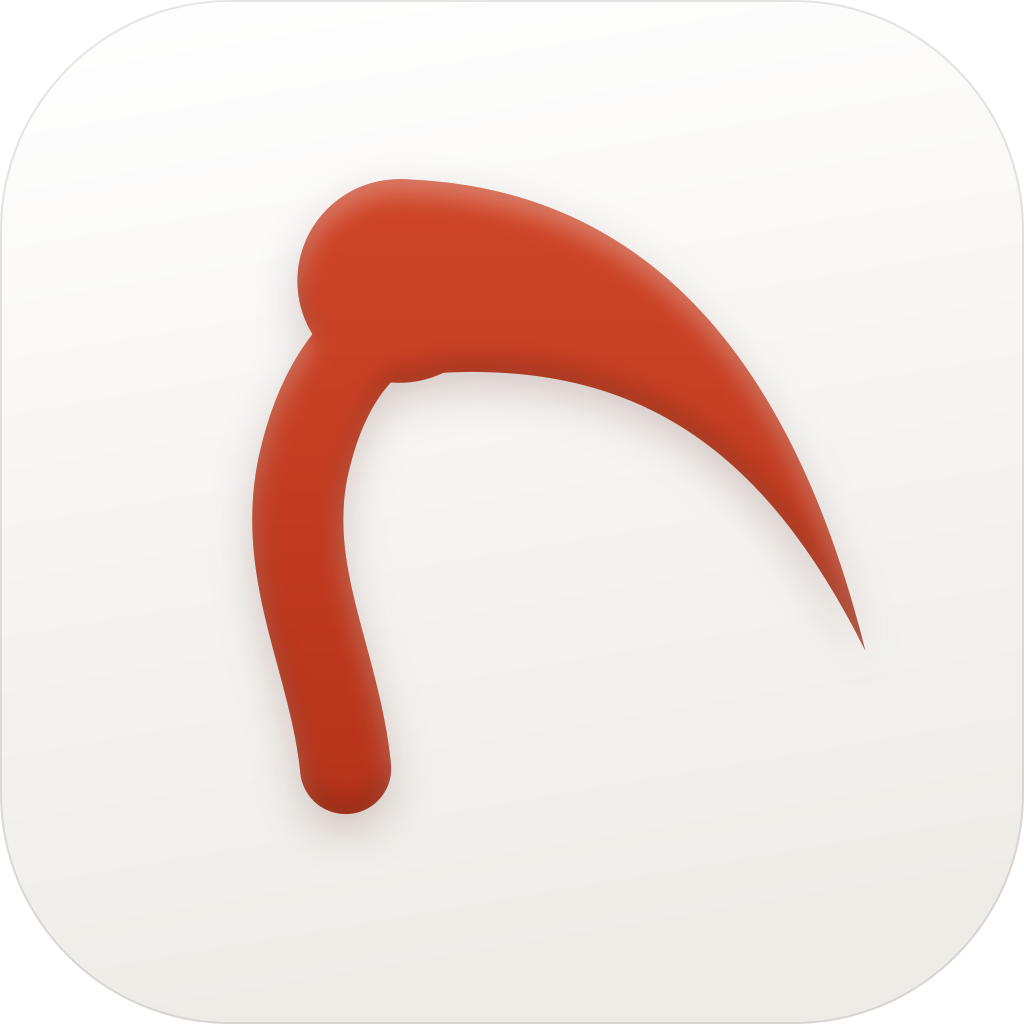
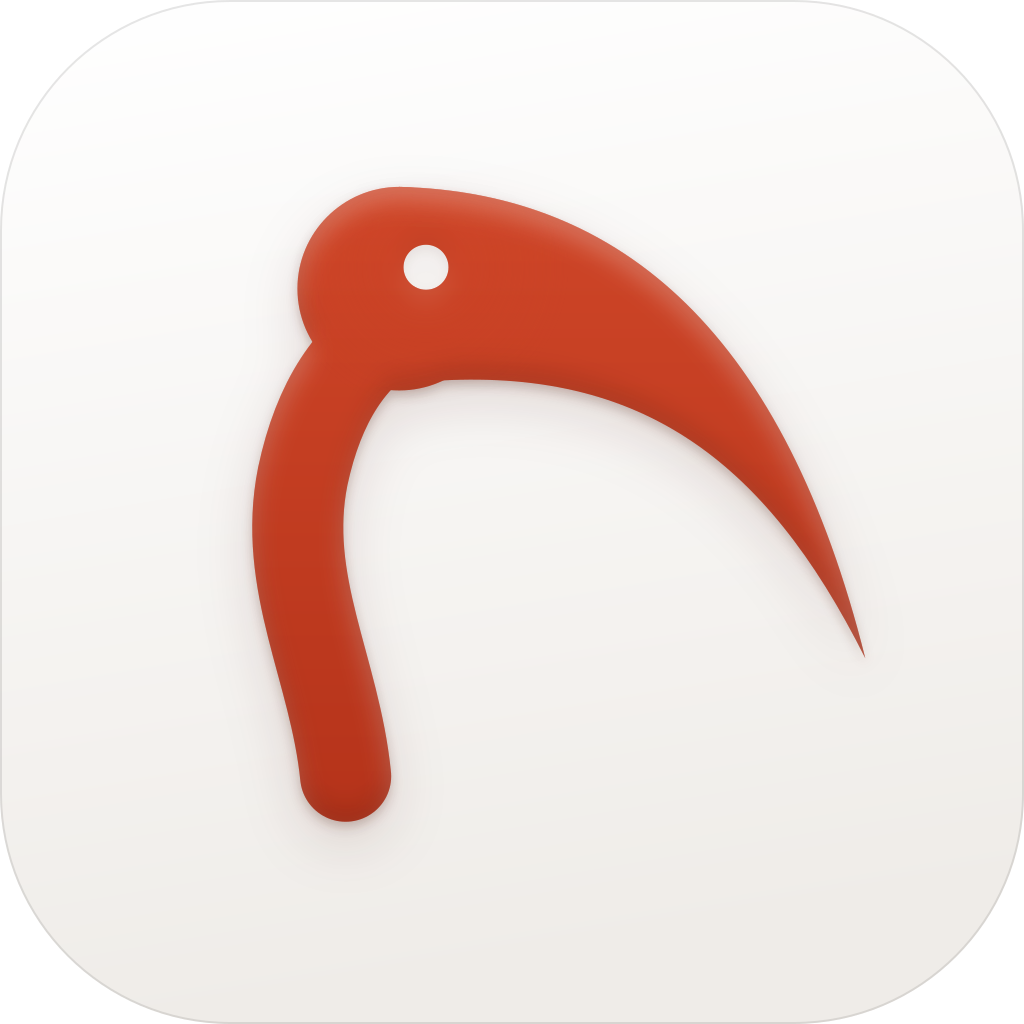
docs: restore the bird's eye in the brand master (#1004)
* docs: restore the bird's eye in the brand master

Add the eye from the approved app icon as its own symbol and cut it
out of the mark, so the background shows through on light and dark.
Favicons leave it out, as the app's small icon does. Halve the
vertical optical lift so the bird sits a little lower in containers.

Closes #1003

Claude-Session: https://claude.ai/code/session_01DmkBNZFY1Uy3f48ZBUWLdU

* docs: cut the eye crisply and add an eye depth setting

Cut the eye after the depth so its edge stays sharp, and fade the
depth's rim light and shade back in inside it with eye_depth (0.35) in
settings.json. Tag every copy of the neck and head in the animation,
and fix the symbol count wording.

Refs #1003

Claude-Session: https://claude.ai/code/session_01DmkBNZFY1Uy3f48ZBUWLdU

* docs: layer the brand depth and soften the eye shading

Replace the single shadow with a tight contact shadow and a wide,
faint ambient one, and soften the rim light and shade, all set in
settings.json. Keep square files the same size with layout.shadow_room.
Feather the eye's shading instead of clipping it, and fade it in after
the head grows in the animation.

Refs #1003

Claude-Session: https://claude.ai/code/session_01DmkBNZFY1Uy3f48ZBUWLdU

---------

diff --git a/brand/build.py b/brand/build.py
@@ -114,7 +114,8 @@ def optical_centre(name, neck=None):
 
 
 def depth_filter(fid, box):
-    """One soft light along the top rim, a shade along the bottom rim, and a short shadow.
+    """One soft light along the top rim, a shade along the bottom rim, and two shadows: a tight
+    contact shadow right under the shape and a wide, faint ambient one.
 
     The region is fixed in the symbol's units around its whole outline, so the shadow is never cut
     off, even mid-animation when only part of the shape is drawn.
@@ -129,11 +130,16 @@ def depth_filter(fid, box):
         f'<feFlood flood-color="#fff" flood-opacity="{D["rim_light"]}"/><feComposite in2="top" operator="in" result="hl"/>'
         f'<feOffset in="b" dy="{-D["rim_offset"]}" result="bu"/><feComposite in="SourceAlpha" in2="bu" operator="out" result="bot"/>'
         f'<feFlood flood-color="#000" flood-opacity="{D["rim_shade"]}"/><feComposite in2="bot" operator="in" result="sh"/>'
+        f'<feGaussianBlur in="SourceAlpha" stdDeviation="{D["contact_blur"]}" result="cb"/>'
+        f'<feOffset in="cb" dy="{D["contact_drop"]}" result="co"/>'
+        f'<feFlood flood-color="{D["shadow_colour"]}" flood-opacity="{D["contact_opacity"]}"/>'
+        '<feComposite in2="co" operator="in" result="contact"/>'
         f'<feGaussianBlur in="SourceAlpha" stdDeviation="{D["shadow_blur"]}" result="db"/>'
         f'<feOffset in="db" dy="{D["shadow_drop"]}" result="do"/>'
         f'<feFlood flood-color="{D["shadow_colour"]}" flood-opacity="{D["shadow_opacity"]}"/>'
         '<feComposite in2="do" operator="in" result="drop"/>'
-        '<feMerge><feMergeNode in="drop"/><feMergeNode in="SourceGraphic"/><feMergeNode in="hl"/><feMergeNode in="sh"/></feMerge>'
+        '<feMerge><feMergeNode in="drop"/><feMergeNode in="contact"/><feMergeNode in="SourceGraphic"/>'
+        '<feMergeNode in="hl"/><feMergeNode in="sh"/></feMerge>'
         "</filter>"
     )
 
@@ -150,9 +156,37 @@ def draw(name, k, tx, ty, paint, uid, depth=False, neck=None):
                 + depth_filter(f"{uid}f", SYM[name][0]))
         paint, attr = f"url(#{uid}g)", f' filter="url(#{uid}f)"'
     if neck:
-        body = thicken(body, neck)
+        body = thicken(body, neck)       # favicon sizes: no eye, as in the app's small icon
     body = body.replace("currentColor", paint)
-    return defs, f'<g transform="translate({tx:.3f} {ty:.3f}) scale({k:.5f})"><g{attr}>{body}</g></g>'
+    shape = f"<g{attr}>{body}</g>"
+    if name == "mark" and not neck:
+        mask, shape = cut_eye(body, uid, attr)
+        defs += mask
+    return defs, f'<g transform="translate({tx:.3f} {ty:.3f}) scale({k:.5f})">{shape}</g>'
+
+
+def cut_eye(body, uid, attr):
+    """Cut the eye out of the bird, so whatever is behind it shows through on any background.
+
+    The cut is made after the depth, so the eye is crisp. `eye_depth` (0 to 1) then fades in the
+    depth's own rim light and shade inside the eye, for a slightly inset look.
+    """
+    bx, by, bw, bh = SYM["mark"][0]
+    m = 4 * D["shadow_blur"]
+    box = f'x="{bx - m:g}" y="{by - m:g}" width="{bw + 2 * m:g}" height="{bh + 2 * m + D["shadow_drop"]:g}"'
+    eye = SYM["eye"][1].replace("currentColor", "#000")
+    defs = f'<mask id="{uid}e" maskUnits="userSpaceOnUse" {box}><rect {box} fill="#fff"/>{eye}</mask>'
+    shape = f'<g mask="url(#{uid}e)"><g{attr}>{body}</g></g>'
+    if attr and D["eye_depth"] > 0:
+        (ex, ey, ew, eh), _ = SYM["eye"]
+        cx, cy, r = ex + ew / 2, ey + eh / 2, 3.2 * ew      # feathered, so the shading has no edge
+        defs += (f'<radialGradient id="{uid}r" gradientUnits="userSpaceOnUse" cx="{cx:g}" cy="{cy:g}" r="{r:g}">'
+                 '<stop offset="0.3" stop-color="#fff"/><stop offset="1" stop-color="#000"/></radialGradient>'
+                 f'<mask id="{uid}s" maskUnits="userSpaceOnUse" x="{cx - r:g}" y="{cy - r:g}" width="{2 * r:g}" height="{2 * r:g}">'
+                 f'<circle cx="{cx:g}" cy="{cy:g}" r="{r:g}" fill="url(#{uid}r)"/></mask>')
+        shape += (f'<g class="eyeshade" mask="url(#{uid}s)" opacity="{D["eye_depth"]:g}">'
+                  f'<g{attr}><g mask="url(#{uid}e)">{body}</g></g></g>')
+    return defs, shape
 
 
 def place(name, x, y, height, paint, uid, depth=False):
@@ -186,7 +220,7 @@ def doc(w, h, defs, body, size=None):
 
 def mark(paint, uid, depth=True):
     bh = SYM["mark"][0][3]
-    side = fitted_side("mark", PAD * bh + D["shadow_drop"])
+    side = fitted_side("mark", PAD * bh + L["shadow_room"])
     defs, body = centred("mark", side, bh, paint, uid, depth)
     return doc(side, side, defs, body, (512, 512))
 
@@ -354,18 +388,21 @@ def motion_css():
         f".neck{{stroke-dasharray:1;animation:draw {t['neck_duration']}s {t['ease']} {t['neck_start']}s backwards}}"
         f".crown{{transform-box:fill-box;transform-origin:18% 22%;"
         f"animation:grow {t['crown_duration']}s {t['crown_ease']} {t['crown_start']}s backwards}}"
+        # The eye's shading fades in once the head has grown, so the two copies never show apart.
+        f".eyeshade{{animation:fade 0.2s linear {t['crown_start'] + t['crown_duration']:g}s backwards}}"
         f".word{{animation:word {t['word_duration']}s {t['ease']} {t['word_start']}s backwards}}"
         "@keyframes draw{0%{stroke-dashoffset:1;opacity:0}8%{opacity:1}to{stroke-dashoffset:0}}"
         f"@keyframes grow{{0%{{transform:rotate({t['crown_turn']}deg) scale({t['crown_from']});opacity:0}}15%{{opacity:1}}}}"
         f"@keyframes word{{0%{{opacity:0;transform:translateX({-t['word_slide']}px)}}}}"
-        "@media (prefers-reduced-motion:reduce){.neck,.crown,.word{animation:none}}"
+        "@keyframes fade{0%{opacity:0}}"
+        "@media (prefers-reduced-motion:reduce){.neck,.crown,.word,.eyeshade{animation:none}}"
     )
 
 
 def animate(svg):
     """Tag the neck and group the head with the beak so they grow from the head's centre as one shape."""
-    out = svg.replace('<path d="M36', '<path class="neck" pathLength="1" d="M36', 1)
-    out = re.sub(r'(<path d="M41 25[^"]*"[^>]*/>)(<circle [^>]*/>)', r'<g class="crown">\1\2</g>', out, count=1)
+    out = svg.replace('<path d="M36', '<path class="neck" pathLength="1" d="M36')
+    out = re.sub(r'(<path d="M41 25[^"]*"[^>]*/>)(<circle [^>]*/>)', r'<g class="crown">\1\2</g>', out)
     if 'class="neck"' not in out or 'class="crown"' not in out:
         raise SystemExit("master.svg's bird changed shape order; update animate() in build.py")
     return out.replace("<defs>", f"<defs><style>{motion_css()}</style>", 1)

diff --git a/brand/README.md b/brand/README.md
@@ -30,8 +30,9 @@ M is the height of the bird.
 - **Space.** Every file already keeps 0.135 M free on each side for the soft shadow. On a page, keep at least 0.25 M clear around the logo.
 - **Logo.** The wordmark's capital height is 0.55 M, centred on the bird, with 0.34 M between the beak tip and "Ibis". Show it about 240 px wide in a README. When the bird would be under 24 px tall, use the bird alone.
 - **In a container.** The bird is 62% of the height of an app icon, avatar or maskable icon. Favicons use the largest bird that fits.
-- **Optical centre.** The bird's weight is in its head, so its outline's centre looks too far left. Square files and containers move it sideways halfway toward its centre of mass (which `build.py` measures from the master) and, vertically, keep the outline's centre lifted 1.5% of the container, a little above the middle.
-- **Depth.** The soft depth is for 48 px and up; smaller uses the flat bird. Favicons use a slightly thicker neck so the bird still reads at 16 px.
+- **Optical centre.** The bird's weight is in its head, so its outline's centre looks too far left. Square files and containers move it sideways halfway toward its centre of mass (which `build.py` measures from the master) and, vertically, keep the outline's centre lifted 0.75% of the container, just above the middle.
+- **Eye.** The bird has an eye, cut out so the background shows through it. It is cut crisply after the depth, and `eye_depth` in `settings.json` (0 for flat, 1 for full) sets how much soft shading shows inside it. Favicons leave it out, because it would be under a pixel.
+- **Depth.** A soft light along the top edge, a shade along the bottom, a tight contact shadow and a wide, faint ambient shadow, all set in `settings.json`. The soft depth is for 48 px and up; smaller uses the flat bird. Favicons use a slightly thicker neck so the bird still reads at 16 px.
 - **Colour.** Scarlet 600 `#C23A1C` on light backgrounds and Scarlet 400 `#FF7A5C` on dark. Text is Ink `#16181D` or Slate `#4C5260` on light, and near-white on dark. The full Scarlet scale (50 to 900) is for websites and videos: tints for backgrounds, 600 to 800 for text and links on light. Never stretch, outline or recolour the bird in other hues, or add effects.
 - **Themes.** Websites use `colors.css`: light by default, dark when the system is dark, and an optional dim theme (`data-theme="dim"`) for a softer charcoal. Each theme names the same roles: `bg`, `surface`, `line`, `text`, `muted`, `accent`, `accent-soft`.
 - **Motion.** The logo animation draws the neck, grows the head and beak out together as one shape, then fades in the wordmark, in about 1.5 s. People who ask their system for reduced motion see the finished logo. Use it once per page or video, never on a loop.
@@ -42,7 +43,7 @@ M is the height of the bird.
 Two files hold everything you might want to change:
 
 - `settings.json`: every colour, size, spacing, depth (rim light, shade and shadow), animation timing and line of text, with plain names. Small adjustments happen here.
-- `master.svg`: the three shapes as exact outlines with no padding: the bird (`mark`), the wordmark (`wordmark`, Inter Display SemiBold, outlined) and the quote mark (`beak`). Edit it only to change a shape.
+- `master.svg`: the shapes as exact outlines with no padding: the bird (`mark`), its eye (`eye`), the wordmark (`wordmark`, Inter Display SemiBold, outlined) and the quote mark (`beak`). Edit it only to change a shape.
 
 After editing either, rebuild every export from the repository root:
 
